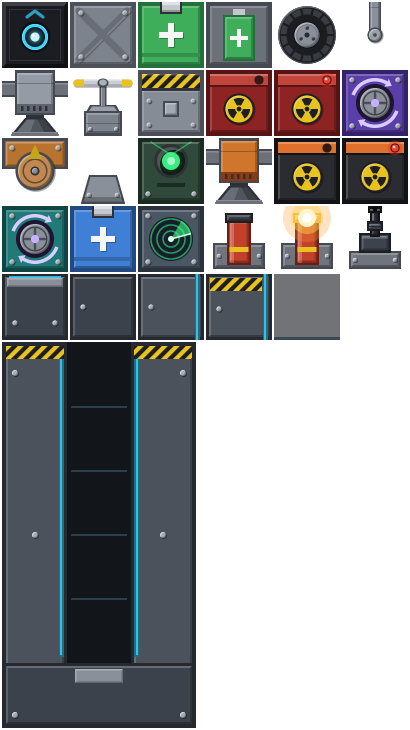
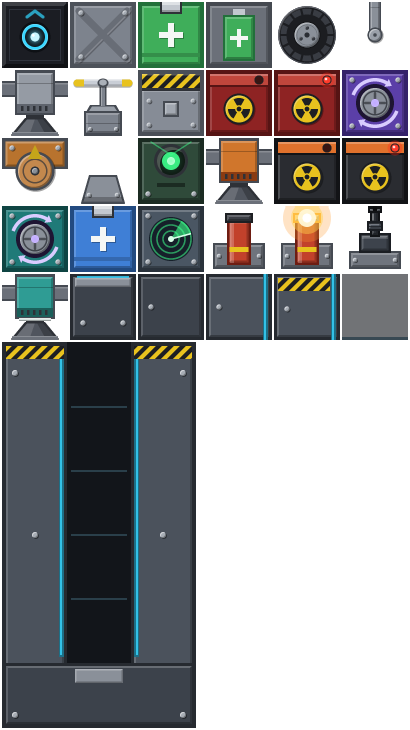
Batch: swiveling thruster (V^ Vv V< V>): a booster whose swivel input tilts its push up to 15 degrees (thrust behavior reads an optional swivel config); flame turns with it; sprite; sim parts details; tests; docs

Changed region(s): [[0.4683, 0.3616, 0.9951, 0.4822], [0.0, 0.3616, 0.322, 0.4822]]

diff --git a/packages/sim-core/test/swivel.test.ts b/packages/sim-core/test/swivel.test.ts
@@ -1,0 +1,109 @@
+import { describe, expect, it } from 'vitest';
+import { World } from '../src/world/World';
+import { defaultRegistry } from '../src/parts/registry';
+import { validateBlueprint } from '../src/blueprint/validate';
+import { parseWorldFile } from '../src/world/WorldFile';
+import type { Robot } from '../src/world/Robot';
+
+/** Open sky and a floor far below, so a robot at y 200 only feels gravity and its parts. */
+const open = parseWorldFile({ name: 'open', ground: { width: 4000, thickness: 2 }, spawn: { x: 0, y: 3 }, boxes: [] });
+
+const hold = (robot: number, ...keys: string[]) => [{ robot, pressed: keys, released: [] }];
+/** The swivel keys: J tilts fully counterclockwise, K fully clockwise, H half of J. */
+const SWIVEL_KEYS = [
+  { key: 'j', mode: 'hold', target: 'swivelthruster', channel: 'swivel', value: 1 },
+  { key: 'k', mode: 'hold', target: 'swivelthruster', channel: 'swivel', value: -1 },
+  { key: 'h', mode: 'hold', target: 'swivelthruster', channel: 'swivel', value: 0.5 },
+];
+/** The thruster sits left of the core, so its push acts off the center of mass: a tilt also turns the robot. */
+const SWIVEL = { format: 1, name: 'swivel', grid: ['V^ C'], bindings: SWIVEL_KEYS };
+/** Core 2 kg plus the thruster's 1.5. */
+const MASS = 3.5;
+/** The thruster hangs straight under the core: a straight push passes through the center of mass. */
+const TAIL = { format: 1, name: 'tail', grid: ['C', 'V^'], bindings: SWIVEL_KEYS };
+const BOOSTER = { format: 1, name: 'booster', grid: ['K^ C'] };
+
+function coreState(w: World, r: Robot) {
+  const core = r.parts.get(r.primaryCoreId ?? r.rootId);
+  const group = r.groups[core?.group ?? 0];
+  if (!group) throw new Error('no core group');
+  return w.physics.state(group.bodyId);
+}
+
+/** Robot state after `ticks` ticks with `keys` held from the first tick. */
+async function fly(bp: unknown, keys: string[], ticks: number) {
+  const w = await World.create({ seed: 1 }, open);
+  const r = w.spawnBlueprint(bp, { x: 0, y: 200 });
+  w.step(hold(r.id, ...keys));
+  for (let i = 1; i < ticks; i++) w.step();
+  const s = { ...coreState(w, r) };
+  w.dispose();
+  return { s, mass: MASS };
+}
+
+describe('swiveling thruster (Batch)', () => {
+  it('is a 400 N, 60 J/s, 1.5 kg booster-like part with a swivel of 15 degrees and a swivel input', () => {
+    const d = defaultRegistry().get('swivelthruster');
+    expect(d).toMatchObject({ mass: 1.5, health: 25, powerDraw: 60, acts: 'N' });
+    expect(d.behaviorConfig).toEqual({ maxForce: 400, swivel: 15 });
+    expect(d.inputs.map((c) => [c.name, c.min, c.max, c.default])).toEqual([['throttle', 0, 1, 0], ['swivel', -1, 1, 0]]);
+    expect(d.autoControl).toEqual({ channel: 'throttle', kind: 'push' });
+  });
+
+  it('with no swivel it matches a booster exactly', async () => {
+    const a = await fly(SWIVEL, ['w'], 90);
+    const b = await fly(BOOSTER, ['w'], 90);
+    expect(a.s).toEqual(b.s);
+    // It did push: a robot left to fall for 1.5 s would be moving at about -14.7 m/s, and this one is not.
+    expect(a.s.vy).toBeGreaterThan(-14);
+  });
+
+  it('full swivel sends 400 sin(15 deg) sideways and 400 cos(15 deg) up, and turns the robot', async () => {
+    const still = await fly(SWIVEL, [], 1);
+    const tilted = await fly(SWIVEL, ['w', 'j'], 1);
+    const dt = 1 / 60;
+    const F = 400;
+    const rad = (15 * Math.PI) / 180;
+    // Counterclockwise: an upward push tilts to the left (negative x).
+    expect((tilted.s.vx - still.s.vx) * tilted.mass).toBeCloseTo(-F * Math.sin(rad) * dt, 2);
+    expect((tilted.s.vy - still.s.vy) * tilted.mass).toBeCloseTo(F * Math.cos(rad) * dt, 2);
+    // The thruster is a meter left of the core, so it pushes on an arm: the robot turns (a lever, not just a shove).
+    expect(Math.abs(tilted.s.w - still.s.w)).toBeGreaterThan(0);
+  });
+
+  it('swivel is proportional and signed: half swivel is half the angle, negative goes the other way', async () => {
+    const still = await fly(SWIVEL, [], 1);
+    const full = await fly(SWIVEL, ['w', 'j'], 1);
+    const half = await fly(SWIVEL, ['w', 'h'], 1);
+    const back = await fly(SWIVEL, ['w', 'k'], 1);
+    const dx = (r: { s: { vx: number } }) => r.s.vx - still.s.vx;
+    const rad = (15 * Math.PI) / 180;
+    expect(dx(half) / dx(full)).toBeCloseTo(Math.sin(rad / 2) / Math.sin(rad), 2);
+    expect(dx(back)).toBeCloseTo(-dx(full), 6);
+  });
+
+  it('a tilted push turns the robot by its torque about the center of mass', async () => {
+    // The thruster hangs straight under the core, so a straight push passes through the center of mass (no spin).
+    // Tilting it counterclockwise pushes the tail left, which spins the robot clockwise (negative w); clockwise, the reverse.
+    const straight = await fly(TAIL, ['w'], 1);
+    const left = await fly(TAIL, ['w', 'j'], 1);
+    const right = await fly(TAIL, ['w', 'k'], 1);
+    expect(Math.abs(straight.s.w)).toBeLessThan(1e-9);
+    expect(left.s.w).toBeLessThan(-0.01);
+    expect(right.s.w).toBeCloseTo(-left.s.w, 9);
+    expect(Math.sign(left.s.vx)).toBe(-1);
+  });
+
+  it('a part without throttle does nothing whatever the swivel', async () => {
+    const still = await fly(SWIVEL, [], 30);
+    const tilted = await fly(SWIVEL, ['j'], 30);
+    expect(tilted.s).toEqual(still.s);
+  });
+
+  it('validates and builds from the default legend (V^ Vv V< V>)', () => {
+    const reg = defaultRegistry();
+    const bp = { format: 1, name: 'v', grid: ['.   Vv  .', 'V>  C   V<'] };
+    const r = validateBlueprint(bp, reg);
+    expect(r.issues.filter((i) => i.severity === 'error')).toEqual([]);
+  });
+});

diff --git a/packages/cli/test/parts.test.ts b/packages/cli/test/parts.test.ts
@@ -6,7 +6,7 @@ describe('parts', () => {
   const rows = partRows(defaultRegistry());
 
   it('has a row per part in builder order, with its key and legend tokens', () => {
-    expect(rows.map((r) => r.key)).toEqual(['1', '2', '3', '4', '5', '6', '7', '8', '9', '0', '-', '=', ';', "'", '/', '', '', '', '', '']);
+    expect(rows.map((r) => r.key)).toEqual(['1', '2', '3', '4', '5', '6', '7', '8', '9', '0', '-', '=', ';', "'", '/', '', '', '', '', '', '']);
     const thruster = rows.find((r) => r.id === 'thruster');
     expect(thruster).toMatchObject({ key: '5', legend: ['T^', 'T<', 'Tv', 'T>'], mass: 1, health: 25, faces: ['N', 'E', 'W'], power: 20 });
     expect(thruster?.details.join('\n')).toContain('maxForce 160 N');
@@ -19,6 +19,7 @@ describe('parts', () => {
     expect(rows.find((r) => r.id === 'densebattery')).toMatchObject({ key: '', legend: ['Z'] });
     expect(rows.find((r) => r.id === 'fabbay')).toMatchObject({ key: '', legend: [], mass: 13, health: 150 });
     expect(rows.find((r) => r.id === 'gun')).toMatchObject({ key: '', legend: ['M^', 'M<', 'Mv', 'M>'], mass: 1, faces: ['S'], health: 25, power: 0 });
+    expect(rows.find((r) => r.id === 'swivelthruster')).toMatchObject({ key: '', legend: ['V^', 'V<', 'Vv', 'V>'], mass: 1.5, faces: ['N', 'E', 'W'], health: 25, power: 60 });
     expect(rows.find((r) => r.id === 'flare')).toMatchObject({ key: '', legend: ['Q^', 'Q<', 'Qv', 'Q>'], mass: 0.2, faces: ['S'], health: 5 });
   });
 
@@ -34,6 +35,8 @@ describe('parts', () => {
     expect(text('fabbay')).toMatch(/builds its recipe \(the part's "makes"\) in its hollow \(1 by 5 by default\): 40 J per kg plus what its containers hold, 0.6 s per kg \(longer if its draw/);
     expect(text('gun')).toMatch(/10 shells a second out of its N face at 300 m\/s; a shell falls under gravity, takes 5 off the first part it hits/);
     expect(text('gun')).toMatch(/looks 150 m straight out of the barrel/);
+    expect(text('swivelthruster')).toMatch(/tilts its push up to 15 degrees counterclockwise \(positive\) or clockwise \(negative\) from its N face/);
+    expect(text('swivelthruster')).toContain('swivel 15 deg');
     expect(text('flare')).toMatch(/burns 2 s and is gone; while it burns, every sensor that sees it takes it for the robot/);
   });
 

diff --git a/packages/sim-core/src/behaviors/thrust.ts b/packages/sim-core/src/behaviors/thrust.ts
@@ -5,6 +5,11 @@ import type { Face } from '../parts/types';
 /**
  * Thrusters and propellers: throttle * maxForce along the direction the part acts (its `acts` face, rotated with
  * the part and its body), applied at the part's cell center as a force for the tick. Draws energy by throttle.
+ *
+ * Batch, swiveling thrusters: a def whose behaviorConfig has `swivel` (degrees, above 0) also reads a `swivel` input
+ * (-1 to 1) and tilts the push that many degrees counterclockwise per unit (negative: clockwise). The push still
+ * lands at the part's cell center, so a tilted push turns the robot as well as moving it. Without `swivel` in the
+ * config nothing changes.
  */
 export const thrust: Behavior = {
   config: ['maxForce'],
@@ -13,13 +18,22 @@ export const thrust: Behavior = {
     const t = ctx.value('throttle');
     const acts = ctx.part.def.acts;
     if (t === 0 || acts === undefined) return undefined;
-    return { load: t, run: (grant) => push(ctx, acts, t * grant) };
+    return { load: t, run: (grant) => push(ctx, acts, t * grant, swivelAngle(ctx)) };
   },
 };
 
-/** Pushes with `t` (0 to 1) of maxForce, as a force for this tick at the part's cell center. */
-function push(ctx: BehaviorContext, acts: Face, t: number): void {
-  const dir = faceDir(rotateFace(acts, ctx.part.rot));
+/** Batch: how far the push is tilted this tick, in radians counterclockwise (0 for a part with no `swivel` config). */
+function swivelAngle(ctx: BehaviorContext): number {
+  const max = ctx.config('swivel');
+  if (max <= 0) return 0;
+  return (Math.max(-1, Math.min(1, ctx.value('swivel'))) * max * Math.PI) / 180;
+}
+
+/** Pushes with `t` (0 to 1) of maxForce, as a force for this tick at the part's cell center, tilted by `tilt` radians. */
+function push(ctx: BehaviorContext, acts: Face, t: number, tilt: number): void {
+  const face = faceDir(rotateFace(acts, ctx.part.rot));
+  // Turn the push direction by the swivel (exactly the face direction when there is none).
+  const dir = tilt === 0 ? face : { x: Math.cos(tilt) * face.x - Math.sin(tilt) * face.y, y: Math.sin(tilt) * face.x + Math.cos(tilt) * face.y };
   const s = ctx.physics.state(ctx.group.bodyId);
   const c = Math.cos(s.angle);
   const n = Math.sin(s.angle);

diff --git a/packages/app/src/render/RobotView.ts b/packages/app/src/render/RobotView.ts
@@ -19,6 +19,8 @@ interface Effect {
   spin?: AnimatedSprite;
   /** Thruster flame: shown above zero, longer and brighter with the channel. */
   flame?: AnimatedSprite;
+  /** Batch: a swiveling thruster's flame turns with its swivel input (up to `deg` degrees, counterclockwise positive) from `base`. */
+  swivel?: { deg: number; base: number };
 }
 
 /** One Container per rigid body, one Sprite per part at its body-local offset. Only containers move per frame. */
@@ -95,6 +97,8 @@ export class RobotView {
           flame.play();
           flames.addChild(flame);
           effect.flame = flame;
+          const swivelDeg = def?.behaviorConfig?.swivel ?? 0;
+          if (swivelDeg > 0) effect.swivel = { deg: swivelDeg, base: s.rotation };
         }
         if (effect.spin || effect.flame) this.effects.push(effect);
       }
@@ -204,6 +208,10 @@ export class RobotView {
         e.flame.visible = t > 0;
         e.flame.alpha = 0.45 + 0.55 * t;
         e.flame.height = PIXELS_PER_METER * (0.45 + 0.75 * t);
+        if (e.swivel) {
+          const tilt = Math.max(-1, Math.min(1, value?.(e.partId, 'swivel') ?? 0)) * e.swivel.deg * (Math.PI / 180);
+          e.flame.rotation = toScreenAngle(e.swivel.base + tilt);
+        }
       }
     }
   }

diff --git a/packages/app/scripts/gen-placeholders.ts b/packages/app/scripts/gen-placeholders.ts
@@ -379,6 +379,15 @@ function drawThruster(body = hex('#959ba4'), heat = hex('#5f646d')): Canvas {
   return cv;
 }
 
+/** Batch: the swiveling thruster is the thruster in teal with a pale gimbal ring around the throat. */
+function drawSwivelThruster(): Canvas {
+  const cv = drawThruster(hex('#2f9c94'), hex('#1b5f5a'));
+  cv.fill(rect(16, 43, 48, 46), hex('#d8e2e0'));
+  cv.fill(rect(16, 43, 48, 44), WHITE, 0.3);
+  cv.fill(rect(16, 45, 48, 46), BLACK, 0.3);
+  return cv;
+}
+
 /** Blade across the top quarter at a given apparent width (1 = full). */
 function drawBlade(cv: Canvas, widthFactor: number): void {
   const half = 26 * widthFactor;
@@ -960,6 +969,7 @@ function main(): void {
     { name: 'part.flare', canvas: drawFlare() },
     { name: 'part.flare.lit', canvas: drawFlare(true) },
     { name: 'part.gun', canvas: drawGun() },
+    { name: 'part.swivelthruster', canvas: drawSwivelThruster() },
     { name: 'part.fabbay', canvas: drawFabBay() },
     { name: 'part.fabbay.floor', canvas: drawFabTile('floor') },
     { name: 'part.fabbay.corner', canvas: drawFabTile('corner') },

diff --git a/packages/sim-core/test/partDefs.test.ts b/packages/sim-core/test/partDefs.test.ts
@@ -38,6 +38,7 @@ describe('default part defs', () => {
       'flare',
       'fabbay',
       'gun',
+      'swivelthruster',
     ]);
   });
 
@@ -47,7 +48,7 @@ describe('default part defs', () => {
 
   it('health (M6): frames are armor, propellers are fragile', () => {
     const health = Object.fromEntries(defaultRegistry().list().map((d) => [d.id, d.health]));
-    expect(health).toEqual({ core: 50, frame: 60, battery: 30, wheel: 25, thruster: 25, propeller: 15, decoupler: 30, warhead: 20, gyro: 30, rotator: 40, cell: 10, seeker: 20, radar: 40, booster: 25, heavywarhead: 20, heavygyro: 30, densebattery: 30, flare: 5, fabbay: 150, gun: 25 });
+    expect(health).toEqual({ core: 50, frame: 60, battery: 30, wheel: 25, thruster: 25, propeller: 15, decoupler: 30, warhead: 20, gyro: 30, rotator: 40, cell: 10, seeker: 20, radar: 40, booster: 25, heavywarhead: 20, heavygyro: 30, densebattery: 30, flare: 5, fabbay: 150, gun: 25, swivelthruster: 25 });
   });
 
   it('the warhead explodes when destroyed and breaks on a hard hit', () => {

diff --git a/packages/cli/src/commands/parts.ts b/packages/cli/src/commands/parts.ts
@@ -21,6 +21,7 @@ const KEYS = ['1', '2', '3', '4', '5', '6', '7', '8', '9', '0', '-', '=', ';', "
 /** Units for behavior settings, by setting name. */
 const UNITS: Record<string, string> = {
   maxForce: 'N',
+  swivel: 'deg',
   maxTorque: 'N m',
   dampTorque: 'N m',
   coastTorque: 'N m',
@@ -55,6 +56,9 @@ function details(d: PartDef): string[] {
     } else {
       out.push(`auto controls: the key for the way it pushes (W up, S down, D right, A left) sets ${a.channel} to max`);
     }
+  }
+  if ((d.behaviorConfig?.swivel ?? 0) > 0 && d.inputs.some((c) => c.name === 'swivel')) {
+    out.push(`swivels: the swivel input (-1 to 1) tilts its push up to ${d.behaviorConfig?.swivel} degrees counterclockwise (positive) or clockwise (negative) from its ${d.acts ?? 'N'} face; the push lands at its cell, so a tilt also turns the robot; no auto key for swivel: bind one or use a script`);
   }
   const boom = d.onDestroyed?.explode;
   const once = d.arming ? ' once armed' : '';

diff --git a/packages/sim-core/test/validate.test.ts b/packages/sim-core/test/validate.test.ts
@@ -29,7 +29,7 @@ describe('validateBlueprint', () => {
     expect(i).toEqual({
       severity: 'error',
       code: 'UNKNOWN_PART',
-      message: "zap@0,0 uses part 'zap', which does not exist (known: core, frame, battery, wheel, thruster, propeller, decoupler, warhead, gyro, rotator, cell, seeker, radar, booster, heavywarhead, heavygyro, densebattery, flare, fabbay, gun)",
+      message: "zap@0,0 uses part 'zap', which does not exist (known: core, frame, battery, wheel, thruster, propeller, decoupler, warhead, gyro, rotator, cell, seeker, radar, booster, heavywarhead, heavygyro, densebattery, flare, fabbay, gun, swivelthruster)",
       partId: 'zap@0,0',
       cell: { x: 0, y: 0 },
     });

diff --git a/packages/sim-core/src/parts/registry.ts b/packages/sim-core/src/parts/registry.ts
@@ -20,6 +20,7 @@ import densebattery from './defs/densebattery.json';
 import flare from './defs/flare.json';
 import fabbay from './defs/fabbay.json';
 import gun from './defs/gun.json';
+import swivelthruster from './defs/swivelthruster.json';
 
 export class PartRegistry {
   private readonly defs = new Map<string, PartDef>();
@@ -72,6 +73,7 @@ const SHIPPED: Array<[string, unknown]> = [
   ['flare.json', flare],
   ['fabbay.json', fabbay],
   ['gun.json', gun],
+  ['swivelthruster.json', swivelthruster],
 ];
 
 let shipped: PartRegistry | null = null;

diff --git a/packages/sim-core/src/blueprint/legend.ts b/packages/sim-core/src/blueprint/legend.ts
@@ -45,6 +45,10 @@ export const DEFAULT_LEGEND: Readonly<Record<string, LegendEntry>> = {
   Mv: { part: 'gun', rot: 180 },
   'M<': { part: 'gun', rot: 90 },
   'M>': { part: 'gun', rot: 270 },
+  'V^': { part: 'swivelthruster', rot: 0 },
+  Vv: { part: 'swivelthruster', rot: 180 },
+  'V<': { part: 'swivelthruster', rot: 90 },
+  'V>': { part: 'swivelthruster', rot: 270 },
   R: { part: 'rotator', rot: 0 },
   Rv: { part: 'rotator', rot: 180 },
   'R<': { part: 'rotator', rot: 90 },

diff --git a/docs/design/02-parts-and-blueprints.md b/docs/design/02-parts-and-blueprints.md
@@ -61,6 +61,7 @@ Numbers are first guesses to be tuned in one place (Q7). Faces listed are attach
 | fabbay | 1 per cell (13 at its default) | 150 | outer faces; grips on its hollow | release (lets go) | ready, progress, built | M12. A fabricator bay (see Fabricators): a U open at the top whose hollow is sized where it is placed (`size`, 1 to 8 wide, 1 to 10 tall; default 1 by 5). Builds its recipe (`makes`) from energy. No legend token (it always needs `makes`), no builder key. |
 | flare | 0.2 | 5 | S (its base) | ignite (lights it for good) | burning | M11. A decoy (see Decoys): burns 2 s once lit, then is gone without a blast; while it burns, sensors take it for its robot. Legend `Q^ Qv Q< Q>` (the way it points), no builder key. |
 | gun | 1 | 25 | S (its base) | fire (while above 0.5) | sight, sightSide, sightId, aim | M13. A gun (see Guns): 10 shells a second out of its front at 300 m/s, 5 damage to the first part each hits (anyone's), 2 N s of kick; its sight looks 150 m straight out of the barrel. No energy. Legend `M^ Mv M< M>` (the way it fires), no builder key. |
+| swivelthruster | 1.5 | 25 | N E W | throttle [0, 1], swivel [-1, 1] | | Batch. A booster (400 N, 60 energy per second) whose push tilts up to 15 degrees with `swivel` (see Swiveling thrusters). Legend `V^ Vv V< V>` (the way it pushes), no builder key. |
 
 Health and blasts are tuned together (M6, `03`): a warhead does 120 at its center, falling to 0 at 3 m, so a lone frame breaks within 1.5 m, a battery within 2.25 m, a propeller within 2.6 m, and every part in the way halves it.
 
@@ -86,6 +87,14 @@ A def with `gun: { speed, damage, rate, life, recoil, range }` is a gun; it need
 - **Pushes that do not unsettle:** a gun's kick and a shell's push are marked quiet: they are too small to trip a fuze, and a robot under fire keeps its fuzes (other pushes switch the impact check off for two ticks).
 - **The sight** (a sensor, straight): each tick after the step, a ray from the barrel's end along its real pose (not the rotator's `angle`, which is the commanded aim), `range` long, skipping its own collider. `sight` is the distance to the first thing (`range` for nothing), `sightSide` what it is (0 nothing, 1 its own robot, 2 a friend, 3 an enemy, 4 nobody's, 5 terrain: the rule contacts use), `sightId` that robot's contact id, `aim` the barrel's world angle. A burning flare let go by a robot reads as that robot. Derived each tick, not hashed. Aiming ahead of a moving target and allowing for drop is the script's job, from contacts; the sight is the last "clear to shoot" check.
 - **Events:** `shellHit` per hit (part, robot, shooter, damage); no event per shot (`World.shotsBy(robot)` counts them for reports).
+
+### Swiveling thrusters (Batch, as built)
+A thrust def whose `behaviorConfig` has `swivel` (degrees, above 0) also reads a `swivel` input (-1 to 1) and tilts its push that far. The engine reads the config key inside the existing `thrust` behavior; no part type is special-cased. Shipped: `swivelthruster` (400 N, 60 J/s, 1.5 kg, health 25, `swivel` 15).
+- **Direction:** `swivel` 1 turns the push 15 degrees counterclockwise from its `acts` face (an upward thruster pushes up and a little left), -1 turns it clockwise, in between is proportional. It follows the part's rotation and its body's, like the plain push.
+- **Force and torque:** the push is still `throttle * 400 N` at the part's cell center, now split into `400 sin(15 deg)` sideways and `400 cos(15 deg)` along the face at full swivel. The sideways part acts off the center of mass, so it turns the robot (a tail thruster under a body tilts it like a gimbal). Swivel 0 is exactly a booster; with no throttle, swivel does nothing.
+- **Controls:** the auto key is the way it pushes (W up, and so on) on `throttle`, like a thruster. `swivel` has no auto key: bind keys (`{ "key": "j", "mode": "hold", "target": "swivelthruster", "channel": "swivel", "value": 1 }`) or set it from a script (`set('tail', 'swivel', clamp(0.1 * err, -1, 1))`).
+- **Hashing:** nothing new is added: the swivel is an ordinary input channel (latched channels of uncontrolled robots are hashed already, only for parts present), so worlds without the part keep their hashes.
+- **App:** the flame overlay turns with the `swivel` channel.
 
 ### Decoys (M11, as built)
 A def with `decoy: { burn }` (seconds) is a decoy; it needs an `ignite` input and a `burning` output (the parser refuses one without). The engine reads the field; no part type is special-cased. Shipped: `flare`.

diff --git a/docs/claude-robot-playbook.md b/docs/claude-robot-playbook.md
@@ -59,7 +59,7 @@ All commands run from the repo root. `<bp>` is a name in `blueprints/` or a path
 }
 ```
 - **Grid:** one cell is 1 m. The first row is the top; the bottom row is y 0, the left column x 0. Tokens are separated by spaces, `.` is empty. Parts get ids `<part>@<x>,<y>` (`wheel@0,0`), and every part answers to its id and its part type (`thruster`) as well as its tags.
-- **Default legend** (arrows point the way the part acts): `C` core, `F` frame, `B` battery, `E` cell, `X` warhead, `G` gyro; `W` wheel hanging below what it mounts to (`W^` above, `W<` on the left side, `W>` on the right); `T^ Tv T< T>` thrusters pushing up, down, left, right; `P` propeller lifting up (`Pv` down); `D Dv D< D>` decouplers releasing up, down, left, right; `R Rv R< R>` rotators carrying their turret up, down, left, right; `S^ Sv S< S>` seekers looking up, down, left, right; `O` radar; `K^ Kv K< K>` boosters; `H` heavy warhead; `Y` heavy gyro; `Z` dense battery. A thruster pushing right sits on the left end of a robot (`T>`).
+- **Default legend** (arrows point the way the part acts): `C` core, `F` frame, `B` battery, `E` cell, `X` warhead, `G` gyro; `W` wheel hanging below what it mounts to (`W^` above, `W<` on the left side, `W>` on the right); `T^ Tv T< T>` thrusters pushing up, down, left, right; `P` propeller lifting up (`Pv` down); `D Dv D< D>` decouplers releasing up, down, left, right; `R Rv R< R>` rotators carrying their turret up, down, left, right; `S^ Sv S< S>` seekers looking up, down, left, right; `O` radar; `K^ Kv K< K>` boosters; `H` heavy warhead; `Y` heavy gyro; `Z` dense battery; `V^ Vv V< V>` swiveling thrusters. A thruster pushing right sits on the left end of a robot (`T>`).
 - **Legend entries** `{ "part", "rot", "tags", "auto", "armed" }` define your own tokens (lowercase letters are free). `rot` is 0, 90, 180, 270 counterclockwise. `"auto": false` takes a part off auto controls (do this for every part a script drives, or the auto keys fight the script). `"armed": true` starts a warhead armed (M10, below).
 - **Attachment:** parts join through faces that touch (`pnpm sim parts` lists them). A wheel attaches only by its mount face; a propeller has no N face (nothing on top of it); a thruster has no S face (its nozzle). Everything must connect to the core.
 - **Tags** group parts for bindings and scripts: `"tags": ["lprop"]`.
@@ -107,6 +107,7 @@ Run `pnpm sim parts` for the full table. g is 9.81.
 - **Energy:** core 600 J, battery 1500 J, dense battery 6000 J (3 kg, blue), cell 250 J. Draw at full input per second: thruster 20, propeller 10, wheel 5, gyro 5, rotator 3, radar 3, seeker 1. The 6-propeller missile drone uses about 30 J/s hovering, about two minutes on two batteries. Out of energy, nothing moves.
 - **Damage:** a warhead does 120 at its center falling to 0 at 3 m, halved by every part in the way, and pushes things away up to 5 m. Health: frame 60, core 50, battery and decoupler and gyro 30, thruster and wheel 25, warhead 20, propeller 15, cell 10. A core right next to a warhead dies.
 - **Guns (M13):** 10 shells a second at 300 m/s, 5 damage each to the first part in the way, gone after 1 s (300 m). An armed warhead goes in 4 hits, a propeller in 3, a gun in 5, a frame in 12. A shell falls about 0.5 m over 100 m and 2.2 m over 200 m.
+- **Swiveling thruster (Batch):** `V^ Vv V< V>`, 1.5 kg, 400 N, 60 J/s, health 25, the booster with a `swivel` input (-1 to 1) that tilts its push up to 15 degrees (positive counterclockwise). Auto key W etc. drives `throttle`; bind or script `swivel`. Under a body it works like a gimbal: a tilt pushes sideways `400 sin(15 deg)` and turns the robot about its center of mass.
 - **Fuze:** a warhead goes off when a hit changes its speed by more than 5 m/s in one step: a fall of about 1.3 m, a landing, a missile clipping a box. A robot with a warhead must not be deployed high in the air or land hard.
 
 ## Placing one blueprint on another
